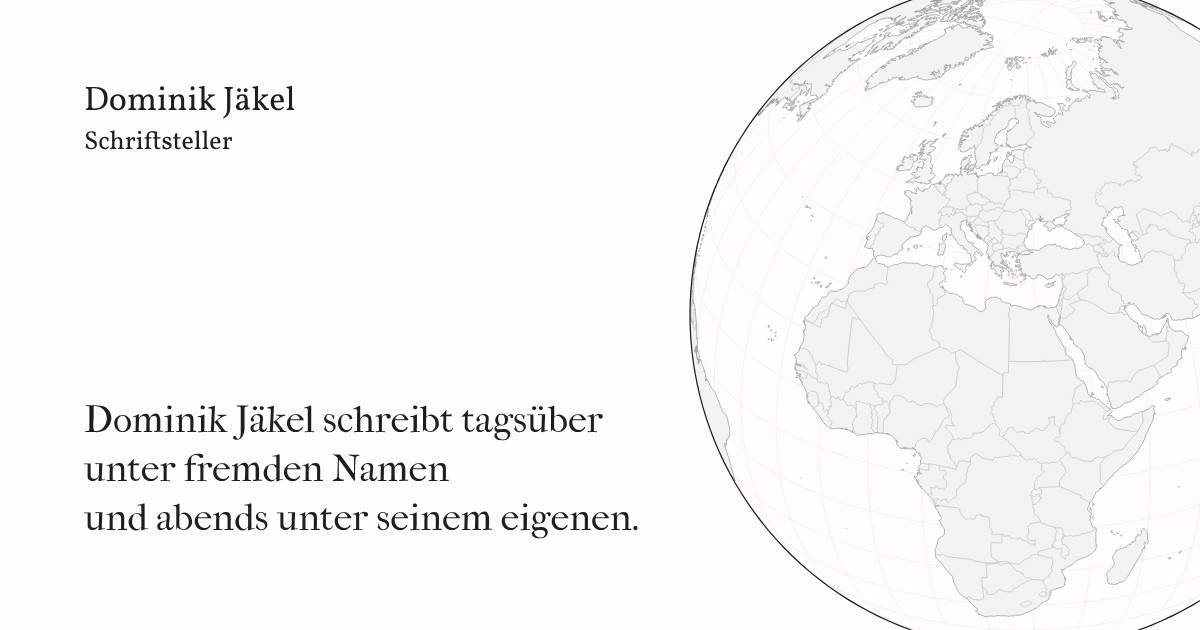
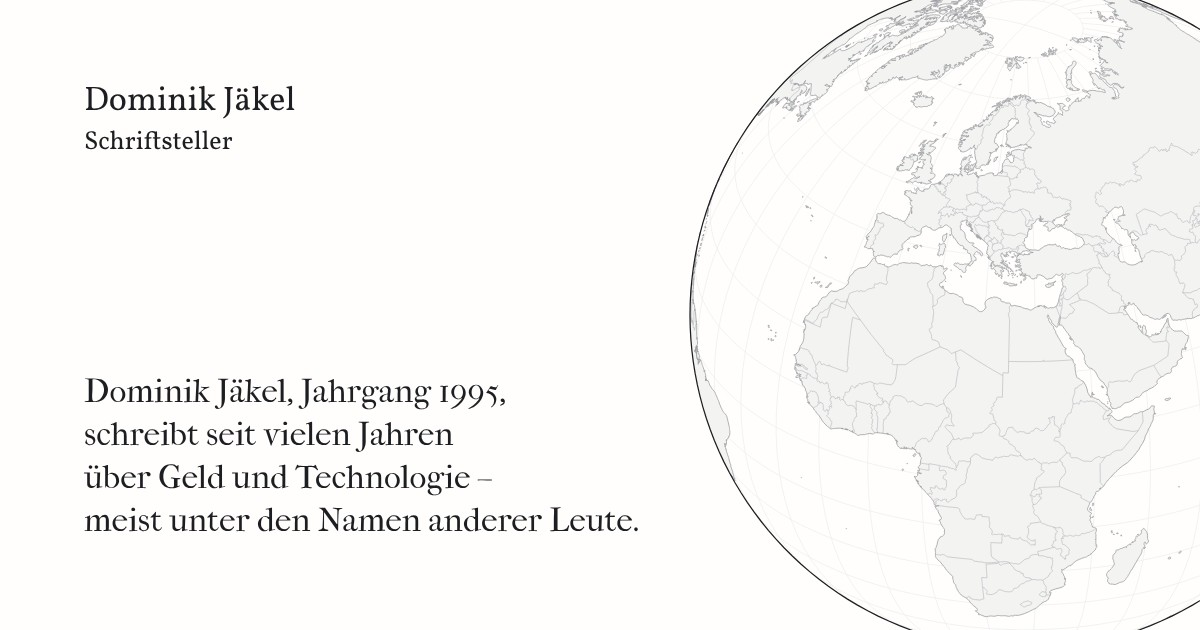
Live: neuer erster Satz der Startseite „Dominik Jäkel, Jahrgang 1995, schreibt seit vielen Jahren über Geld und Technologie – meist unter den Namen anderer Leute.“ (fünf Sinnzeilen, ab 1323 px vier, Einflug wie bisher, Regal bleibt bei 1440 × 900 im ersten Bildschirm); Vorschaubild für geteilte Link
Claude-Session: https://claude.ai/code/session_01FLvC2WiH5JqxixgzSsFejm

Changed region(s): [[0.0617, 0.6032, 0.4933, 0.7841], [0.0617, 0.8143, 0.5242, 0.8444]]

diff --git a/website-c/index.html b/website-c/index.html
@@ -31,12 +31,36 @@
    nur aus den Token in stil.css. */
 
 /* ---------- Der erste Satz (02) ----------
-   IM Fell French Canon im Grad Einstieg, jedes Glied eine Zeile. Der Platz für drei Zeilen steht von Anfang an fest. */
-.einstieg { --einstieg-zh: var(--zh-gross); margin-top: var(--z); min-height: calc(var(--einstieg-zh) * 3); font-size: var(--g-einstieg); line-height: var(--einstieg-zh); }
+   IM Fell French Canon im Grad Einstieg, jedes Glied eine Zeile. Seit dem 6. November Dominiks Satz vom Anfang seiner Bio (Dominik:
+   „Nimm das auch als Slogan für die Startseite ... / Dominik Jäkel, Jahrgang 1995, schreibt seit vielen Jahren über Geld und
+   Technologie – meist unter den Namen anderer Leute. / Ist besser als das mit dem tagsüber und abends ... Sonst okay.“), in fünf
+   Gliedern nach Sinneinheiten: „Dominik Jäkel, Jahrgang 1995, / schreibt seit vielen Jahren / über Geld und Technologie – / meist
+   unter den Namen / anderer Leute.“ Ab 1323 px Breite stehen die letzten beiden auf einer Zeile (.satzteil, unten), vier Zeilen wie
+   die vier Teile des Satzes: mit fünf Zeilen läge die Unterschrift des Regals bei 1440 × 900 unter dem Rand. Erst dort hat die
+   Zeile „meist unter den Namen anderer Leute.“ Platz, ohne unter 28,5 px zu kommen (Boden im Skript); schmaler bliebe sie zu klein
+   für die Zeilenhöhe von 1,5 z, darum dort fünf Zeilen im Grad, den das erste Glied erlaubt, wie auf dem Telefon. Auf dem Tablet
+   finden die letzten beiden von selbst auf eine Zeile, wo sie hinpassen. Der Platz für die Zeilen steht von Anfang an fest: fünf,
+   ab 1323 px und auf dem Tablet vier (bis zum 6. November drei für „Dominik Jäkel schreibt tagsüber / unter fremden Namen / und
+   abends unter seinem eigenen.“). */
+.einstieg { --einstieg-zh: var(--zh-gross); margin-top: var(--z); min-height: calc(var(--einstieg-zh) * 5); font-size: var(--g-einstieg); line-height: var(--einstieg-zh); }
 /* Letzte Sicherung, falls das Skript den Satz nicht anpassen kann: nie breiter als die Spalte, ein zu langes Wort bricht eher, als
    über den Rand zu laufen (Dominik: „der Punkt von eigenes abgeschnitten“). Den Flug berührt das nicht, er verschiebt nur. */
 .globusseite > .einstieg { max-width: min(100%, var(--mass)); min-width: 0; overflow-wrap: break-word; }
 .einstieg.gesetzt .glied-satz, .einstieg .paar { white-space: nowrap; }
+/* Ab 82,6875 rem (1323 px; die Spalte ist dann mindestens 490 px breit, 62vw − 330 px) bleibt der letzte Satzteil, „meist unter den
+   Namen“ und „anderer Leute.“, auf einer Zeile, und das Skript passt den Grad an diese Zeile an, die längste: 633,7 px in 38 px,
+   bei 1440 px 32,7 px, ab 1451 px 33,1 px. Darunter bricht er zwischen den beiden Gliedern wie jedes andere Glied. Nur gesetzt:
+   bricht der Satz frei, bricht auch er (white-space am Leerzeichen allein hält Chromium nicht, darum die Klammer um beide Glieder) */
+@media (min-width: 82.6875rem) {
+  .einstieg { min-height: calc(var(--einstieg-zh) * 4); }
+  .einstieg.gesetzt .satzteil { white-space: nowrap; }
+}
+/* Am Desktop steht der Satz ¼ z unter dem Kopf statt 1 z (6. November, mit dem neuen Satz): ab 1323 px hat er eine Zeile mehr als
+   der alte, so rücken Kurzvita und Regal dort nur um ¾ z tiefer statt um 1½ z (darunter, mit zwei Zeilen mehr, um 2¼ z statt
+   3 z). Bei 1440 × 900 bleiben unter der Unterschrift des Regals 38 px Luft (ohne das 17 px, vorher 60), und nach einem Klick auf
+   ein Buch steht die erste Zeile seines Satzes noch im Bild, wie bisher. In der vollen Website steht darüber die Navigation, von
+   ihr bis zum Satz sind es dann 1¼ z (vorher 2 z) */
+@media (min-width: 62.0625rem) { .globusseite > .einstieg { margin-top: var(--z-viertel); } }
 .einstieg-satz { display: inline; }
 html:not(.js) .einstieg .glied-satz { display: block; }
 .einstieg-satz .w { display: inline-block; }
@@ -293,7 +317,9 @@ html.folge #regalbild[data-folge]:not(.da) { pointer-events: none; }
 html:not(.js) .gelesen-vorwort, html:not(.js) .zeitband { display: none; }
 
 @media (max-width: 62rem) {
-  .einstieg { --einstieg-zh: calc(var(--z) * 1.25); }
+  /* Tablet und Telefon quer: die Spalte ist so breit, dass die letzten beiden Glieder (oder mehr) auf eine Zeile finden; vier Zeilen
+     reichen (768 px vier, 844 px quer drei) */
+  .einstieg { --einstieg-zh: calc(var(--z) * 1.25); min-height: calc(var(--einstieg-zh) * 4); }
   /* Einspaltig folgt die Kugel direkt auf die Kurzvita, mit 1 z Abstand aus stil.css (ohne Wahl der Ebene darüber) */
   .globusseite > .ebenentext { order: 1; margin-top: var(--z); }
   .schreiben-raster { grid-template-columns: minmax(0, var(--mass)); }
@@ -301,6 +327,8 @@ html:not(.js) .gelesen-vorwort, html:not(.js) .zeitband { display: none; }
   .schreiben-raster .verzeichnis { grid-column: 1; grid-row: 2; margin-top: var(--z); }
 }
 @media (max-width: 40rem) {
+  /* Auf dem Telefon steht der erste Satz in fünf Zeilen, je Glied eine (oben; 320 bis 412 px in 21 bis 27 px) */
+  .einstieg { min-height: calc(var(--einstieg-zh) * 5); }
   /* Das Band ist breiter als der Schirm und rollt in seinem eigenen Rahmen, nur unter dem Finger */
   .zeitband-roll { overflow-x: auto; overflow-y: hidden; -webkit-overflow-scrolling: touch; scrollbar-width: thin; overscroll-behavior-x: contain; padding-bottom: var(--z-viertel); margin: 0 calc(var(--rand-l) * -1); padding-left: var(--rand-l); padding-right: var(--rand-l); scroll-padding: 0 var(--rand-l); }
   .bandzeile > span { text-wrap: balance; hyphens: manual; -webkit-hyphens: manual; }
@@ -391,9 +419,10 @@ html[data-ausgabe="platzhalter"] .blass:has(:focus-visible) { opacity: 1 !import
 
 <main id="inhalt">
 <section class="globusseite" aria-label="Vita und Globus">
-  <p class="einstieg leitsatz" id="einstieg"><span class="glied-satz">Dominik Jäkel schreibt tagsüber</span> <span class="glied-satz">unter fremden Namen</span> <span class="glied-satz">und abends unter seinem eigenen.</span></p>
+  <p class="einstieg leitsatz" id="einstieg"><span class="glied-satz">Dominik Jäkel, Jahrgang 1995,</span> <span class="glied-satz">schreibt seit vielen Jahren</span> <span class="glied-satz">über Geld und Technologie&nbsp;–</span> <span class="satzteil"><span class="glied-satz">meist unter den Namen</span> <span class="glied-satz">anderer Leute.</span></span></p>
   <script>
-  /* Der erste Satz fliegt bei jedem Laden einmal ein, Wort für Wort von rechts, in rund 2 s (02; Tempo T2 „gelassen“). Er wartet höchstens
+  /* Der erste Satz fliegt bei jedem Laden einmal ein, Wort für Wort von rechts, in rund 2,7 s (02; Tempo T2 „gelassen“; mit dem Satz
+     bis zum 6. November, zwölf Wörter in drei Gliedern, waren es rund 2 s, das Tempo ist dasselbe). Er wartet höchstens
      1200 ms auf die IM Fell (bis zum 23. Oktober 600 ms, wie FSeite.schriftEinstieg; seite.js ist an dieser Stelle noch nicht
      geladen). Auf dem Telefon im Mobilnetz und im Fenster der Claude-App kam sie oft später, dann stand der Satz ohne Flug (Dominik,
      23. Oktober: „Beim Handy. Hatten wir uns entschieden, dass die Buchstaben nicht einfliegen. Finde das schon ganz schick
@@ -422,10 +451,12 @@ html[data-ausgabe="platzhalter"] .blass:has(:focus-visible) { opacity: 1 !import
     satz.setAttribute('aria-hidden', 'true');
     while (el.firstChild) satz.appendChild(el.firstChild);
     var glieder = Array.prototype.slice.call(satz.querySelectorAll('.glied-satz'));
-    // Was nie getrennt wird, auch wenn der Satz frei bricht: der Name und „seinem eigenen.“
-    var PAARE = ['Dominik Jäkel', 'seinem eigenen.'];
+    // Was nie getrennt wird, auch wenn der Satz frei bricht: der Name, „Jahrgang 1995,“ und „anderer Leute.“ (so steht in der letzten
+    // Zeile nie ein Wort allein). Getrennt wird nur an gewöhnlichem Leerraum, nicht am festen Leerzeichen: „Technologie –“ ist ein
+    // Wortkasten, der Gedankenstrich steht nie am Anfang einer Zeile und fliegt mit seinem Wort ein
+    var PAARE = ['Dominik Jäkel,', 'Jahrgang 1995,', 'anderer Leute.'];
     glieder.forEach(function (g) {
-      var woerter = g.textContent.trim().split(/\s+/);
+      var woerter = g.textContent.trim().split(/[ \t\n\r\f]+/);
       g.textContent = '';
       var paar = null;
       woerter.forEach(function (w, i) {
@@ -454,7 +485,9 @@ html[data-ausgabe="platzhalter"] .blass:has(:focus-visible) { opacity: 1 !import
     var woerter = Array.prototype.slice.call(satz.querySelectorAll('.w'));
 
     /* Jedes Glied eine Zeile. Passt das längste nicht mit Luft in die Spalte, wird die Schrift kleiner, bis es passt, am Desktop
-       nicht unter 28,5 px, sonst nicht unter 20,7 px. Reicht auch das nicht, bricht der Satz frei; über den Rand läuft er nie.
+       nicht unter 28,5 px, sonst nicht unter 20,7 px. Reicht auch das nicht, bricht der Satz frei; über den Rand läuft er nie. Ab
+       1323 px ist die längste Zeile die mit den beiden letzten Gliedern (.satzteil, Stil oben): laengstes() misst das rechte Ende
+       jedes Glieds, das zweite steht dort am Ende der Zeile.
        Dominik am 23. Oktober, mit einem Bildschirmfoto: „Bei mir auf dem eigenen Handy ist der Punkt von eigenes abgeschnitten.“
        Auf seinem Telefon stand der Satz rund 10 % größer, als die Anpassung ihn in Chromium setzt. Darum:
        - Luft: das längste Glied nimmt höchstens 97 % der Spalte ein, mindestens 6 px bleiben frei (Stufen in anpassen());
@@ -469,9 +502,12 @@ html[data-ausgabe="platzhalter"] .blass:has(:focus-visible) { opacity: 1 !import
       glieder.forEach(function (g) { rechts = Math.max(rechts, g.getBoundingClientRect().right); });
       return rechts - links;
     }
-    // Was beim letzten Setzen galt: Breite der Spalte und Breite jedes Worts. Ändert sich eins davon, wird neu gesetzt (unten)
+    // Was beim letzten Setzen galt: Breite der Spalte, ob der letzte Satzteil auf einer Zeile steht (ab 82,6875 rem, wie im Stil oben;
+    // an der Grenze ändert sich die gerundete Breite der Spalte oft nicht, sonst bliebe nach einem Größenwechsel der Grad der anderen
+    // Seite stehen) und Breite jedes Worts. Ändert sich eins davon, wird neu gesetzt (unten)
     var masse = '';
-    function mass() { return el.clientWidth + ':' + woerter.map(function (w) { return w.offsetWidth; }).join(','); }
+    var zusammen = function () { return !!(window.matchMedia && window.matchMedia('(min-width: 82.6875rem)').matches); };
+    function mass() { return el.clientWidth + ':' + zusammen() + ':' + woerter.map(function (w) { return w.offsetWidth; }).join(','); }
     function setzen() {
       anpassen();
       masse = mass();
@@ -534,7 +570,8 @@ html[data-ausgabe="platzhalter"] .blass:has(:focus-visible) { opacity: 1 !import
        Kurve (.22,.7,.28,1), und getrennt davon die Deckkraft in DECKKRAFT ms (ease), so dass man jedes Wort satt werden sieht;
        VERSATZ ms von Wort zu Wort, ATEM ms zwischen den Gliedern, kein Nachfedern, keine Unschärfe (bis zum 24. Oktober lag über
        jedem Wort eine unscharfe Kopie, die ins scharfe überblendete; im Tempo „gelassen“, das Dominik am 24. Oktober gewählt hat,
-       entfällt sie). Ganz: 9 × VERSATZ + 2 × ATEM + WEG, rund 1,9 s. Textmoment: das letzte Wort steht zu 95 % (Beginn +
+       entfällt sie). Ganz: 13 × VERSATZ + 4 × ATEM + WEG, rund 2,7 s (18 Wortkästen in fünf Gliedern; wo die letzten beiden auf
+       einer Zeile stehen, liegt ein Atem mitten in ihr, vor „anderer Leute.“). Textmoment: das letzte Wort steht zu 95 % (Beginn +
        max(DECKKRAFT, 0,6 × WEG)). Beides sind Animationen von Deckkraft und Verschiebung, die der Browser ohne den Hauptfaden
        weiterführt: baut die Seite in dieser Zeit die Kugel auf, stockt nichts */
     var WEG = 800, DECKKRAFT = 420, VERSATZ = 75, ATEM = 220;

diff --git a/veroeffentlichung/index.html b/veroeffentlichung/index.html
@@ -16,7 +16,7 @@
 <meta property="og:image:type" content="image/jpeg">
 <meta property="og:image:width" content="1200">
 <meta property="og:image:height" content="630">
-<meta property="og:image:alt" content="Dominik Jäkel, Schriftsteller. Dominik Jäkel schreibt tagsüber unter fremden Namen und abends unter seinem eigenen. Rechts ein Globus mit Europa und Afrika.">
+<meta property="og:image:alt" content="Dominik Jäkel, Schriftsteller. Dominik Jäkel, Jahrgang 1995, schreibt seit vielen Jahren über Geld und Technologie – meist unter den Namen anderer Leute. Rechts ein Globus mit Europa und Afrika.">
 <meta name="twitter:card" content="summary_large_image">
 <script type="application/ld+json">{"@context":"https://schema.org","@type":"Person","@id":"https://dominikjaekel.de/#person","name":"Dominik Jäkel","url":"https://dominikjaekel.de/","jobTitle":"Schriftsteller","description":"Dominik Jäkel studierte am Hasso-Plattner-Institut in Potsdam und lebte vier Jahre auf Taiwan; heute lebt er in Berlin und moderiert u. a. die Werkstattbühne des Autorenforums Berlin e. V. 2022 erhielt er den A.-E.-Johann-Preis. Gerade schließt er seinen Debütroman Satoshi ab; daneben schreibt er an einer Romantrilogie über die Ursprünge der Zivilisation.","award":"A.-E.-Johann-Preis (2022)","affiliation":{"@type":"Organization","name":"Autorenforum Berlin e. V.","url":"https://autorenforum-berlin.de/"}}</script>
 <meta name="theme-color" content="#FFFEFC">
@@ -36,9 +36,14 @@ document.documentElement.classList.add('js');
 
 <link rel="stylesheet" href="stil.css">
 <style>
-.einstieg { --einstieg-zh: var(--zh-gross); margin-top: var(--z); min-height: calc(var(--einstieg-zh) * 3); font-size: var(--g-einstieg); line-height: var(--einstieg-zh); }
+.einstieg { --einstieg-zh: var(--zh-gross); margin-top: var(--z); min-height: calc(var(--einstieg-zh) * 5); font-size: var(--g-einstieg); line-height: var(--einstieg-zh); }
 .globusseite > .einstieg { max-width: min(100%, var(--mass)); min-width: 0; overflow-wrap: break-word; }
 .einstieg.gesetzt .glied-satz, .einstieg .paar { white-space: nowrap; }
+@media (min-width: 82.6875rem) {
+  .einstieg { min-height: calc(var(--einstieg-zh) * 4); }
+  .einstieg.gesetzt .satzteil { white-space: nowrap; }
+}
+@media (min-width: 62.0625rem) { .globusseite > .einstieg { margin-top: var(--z-viertel); } }
 .einstieg-satz { display: inline; }
 html:not(.js) .einstieg .glied-satz { display: block; }
 .einstieg-satz .w { display: inline-block; }
@@ -177,13 +182,14 @@ html.folge #regalbild[data-folge]:not(.da) { pointer-events: none; }
 .ganze { margin-top: var(--z-dreiviertel); }
 html:not(.js) .gelesen-vorwort, html:not(.js) .zeitband { display: none; }
 @media (max-width: 62rem) {
-  .einstieg { --einstieg-zh: calc(var(--z) * 1.25); }
+  .einstieg { --einstieg-zh: calc(var(--z) * 1.25); min-height: calc(var(--einstieg-zh) * 4); }
   .globusseite > .ebenentext { order: 1; margin-top: var(--z); }
   .schreiben-raster { grid-template-columns: minmax(0, var(--mass)); }
   .schreiben-raster .regalbild { grid-column: 1; grid-row: 1; margin: 0; }
   .schreiben-raster .verzeichnis { grid-column: 1; grid-row: 2; margin-top: var(--z); }
 }
 @media (max-width: 40rem) {
+  .einstieg { min-height: calc(var(--einstieg-zh) * 5); }
   .zeitband-roll { overflow-x: auto; overflow-y: hidden; -webkit-overflow-scrolling: touch; scrollbar-width: thin; overscroll-behavior-x: contain; padding-bottom: var(--z-viertel); margin: 0 calc(var(--rand-l) * -1); padding-left: var(--rand-l); padding-right: var(--rand-l); scroll-padding: 0 var(--rand-l); }
   .bandzeile > span { text-wrap: balance; hyphens: manual; -webkit-hyphens: manual; }
   .stueck.liegt > span { left: 4px; right: 4px; }
@@ -228,7 +234,7 @@ html[data-ausgabe="platzhalter"] .blass:has(:focus-visible) { opacity: 1 !import
 
 <main id="inhalt">
 <section class="globusseite" aria-label="Vita und Globus">
-  <p class="einstieg leitsatz" id="einstieg"><span class="glied-satz">Dominik Jäkel schreibt tagsüber</span> <span class="glied-satz">unter fremden Namen</span> <span class="glied-satz">und abends unter seinem eigenen.</span></p>
+  <p class="einstieg leitsatz" id="einstieg"><span class="glied-satz">Dominik Jäkel, Jahrgang 1995,</span> <span class="glied-satz">schreibt seit vielen Jahren</span> <span class="glied-satz">über Geld und Technologie&nbsp;–</span> <span class="satzteil"><span class="glied-satz">meist unter den Namen</span> <span class="glied-satz">anderer Leute.</span></span></p>
   <script>
   (function () {
     'use strict';
@@ -246,9 +252,9 @@ html[data-ausgabe="platzhalter"] .blass:has(:focus-visible) { opacity: 1 !import
     satz.setAttribute('aria-hidden', 'true');
     while (el.firstChild) satz.appendChild(el.firstChild);
     var glieder = Array.prototype.slice.call(satz.querySelectorAll('.glied-satz'));
-    var PAARE = ['Dominik Jäkel', 'seinem eigenen.'];
+    var PAARE = ['Dominik Jäkel,', 'Jahrgang 1995,', 'anderer Leute.'];
     glieder.forEach(function (g) {
-      var woerter = g.textContent.trim().split(/\s+/);
+      var woerter = g.textContent.trim().split(/[ \t\n\r\f]+/);
       g.textContent = '';
       var paar = null;
       woerter.forEach(function (w, i) {
@@ -282,7 +288,8 @@ html[data-ausgabe="platzhalter"] .blass:has(:focus-visible) { opacity: 1 !import
       return rechts - links;
     }
     var masse = '';
-    function mass() { return el.clientWidth + ':' + woerter.map(function (w) { return w.offsetWidth; }).join(','); }
+    var zusammen = function () { return !!(window.matchMedia && window.matchMedia('(min-width: 82.6875rem)').matches); };
+    function mass() { return el.clientWidth + ':' + zusammen() + ':' + woerter.map(function (w) { return w.offsetWidth; }).join(','); }
     function setzen() {
       anpassen();
       masse = mass();

diff --git a/website-c/werkzeuge/vorschaubild.html b/website-c/werkzeuge/vorschaubild.html
@@ -5,7 +5,11 @@
 <title>Vorschaubild</title>
 <!-- Vorlage für bilder/vorschau.jpg (Open Graph, 1200 × 630), gerechnet von werkzeuge/bilder.cjs. Wird nicht veröffentlicht.
      Wie die Startseite: links Name, Tagline und der erste Satz, rechts die angeschnittene Kugel in feinen Linien. Farben, Schriften
-     und Linien aus stil.css und Abschnitt 4.1 der Regeln. Kein Verlauf, kein Schatten. Pfade relativ zu website-c/werkzeuge/. -->
+     und Linien aus stil.css und Abschnitt 4.1 der Regeln. Kein Verlauf, kein Schatten. Pfade relativ zu website-c/werkzeuge/.
+     Seit dem 6. November Dominiks neuer erster Satz („Nimm das auch als Slogan für die Startseite ...“) in den vier Zeilen der
+     Startseite am Desktop (dort ab 1323 px): „Dominik Jäkel, Jahrgang 1995, / schreibt seit vielen Jahren / über Geld und
+     Technologie – / meist unter den Namen anderer Leute.“; bis dahin „Dominik Jäkel schreibt tagsüber / unter fremden Namen / und
+     abends unter seinem eigenen.“ -->
 <style>
 @font-face { font-family: "Vollkorn"; src: url("../schrift/vollkorn.woff2") format("woff2"); font-weight: 400 600; font-style: normal; }
 @font-face { font-family: "IM Fell French Canon"; src: url("../schrift/im-fell-french-canon.woff2") format("woff2"); font-weight: 400; font-style: normal; }
@@ -30,7 +34,7 @@ body { position: relative; font-family: "Vollkorn", Georgia, serif; font-variant
   <p class="name">Dominik Jäkel</p>
   <p class="rolle">Schriftsteller</p>
 </div>
-<p class="satz"><span>Dominik Jäkel schreibt tagsüber</span><span>unter fremden Namen</span><span>und abends unter seinem eigenen.</span></p>
+<p class="satz"><span>Dominik Jäkel, Jahrgang 1995,</span><span>schreibt seit vielen Jahren</span><span>über Geld und Technologie&nbsp;–</span><span>meist unter den Namen anderer Leute.</span></p>
 <script src="../lib/d3.min.js"></script>
 <script src="../lib/topojson-client.min.js"></script>
 <script src="../daten/welt-50m.js"></script>

diff --git a/veroeffentlichung/vita.html b/veroeffentlichung/vita.html
@@ -16,7 +16,7 @@
 <meta property="og:image:type" content="image/jpeg">
 <meta property="og:image:width" content="1200">
 <meta property="og:image:height" content="630">
-<meta property="og:image:alt" content="Dominik Jäkel, Schriftsteller. Dominik Jäkel schreibt tagsüber unter fremden Namen und abends unter seinem eigenen. Rechts ein Globus mit Europa und Afrika.">
+<meta property="og:image:alt" content="Dominik Jäkel, Schriftsteller. Dominik Jäkel, Jahrgang 1995, schreibt seit vielen Jahren über Geld und Technologie – meist unter den Namen anderer Leute. Rechts ein Globus mit Europa und Afrika.">
 <meta name="twitter:card" content="summary_large_image">
 <script type="application/ld+json">{"@context":"https://schema.org","@type":"Person","@id":"https://dominikjaekel.de/#person","name":"Dominik Jäkel","url":"https://dominikjaekel.de/","jobTitle":"Schriftsteller","description":"Dominik Jäkel studierte am Hasso-Plattner-Institut in Potsdam und lebte vier Jahre auf Taiwan; heute lebt er in Berlin und moderiert u. a. die Werkstattbühne des Autorenforums Berlin e. V. 2022 erhielt er den A.-E.-Johann-Preis. Gerade schließt er seinen Debütroman Satoshi ab; daneben schreibt er an einer Romantrilogie über die Ursprünge der Zivilisation.","award":"A.-E.-Johann-Preis (2022)","affiliation":{"@type":"Organization","name":"Autorenforum Berlin e. V.","url":"https://autorenforum-berlin.de/"}}</script>
 <meta name="theme-color" content="#FFFEFC">

diff --git a/veroeffentlichung/datenschutz.html b/veroeffentlichung/datenschutz.html
@@ -17,7 +17,7 @@
 <meta property="og:image:type" content="image/jpeg">
 <meta property="og:image:width" content="1200">
 <meta property="og:image:height" content="630">
-<meta property="og:image:alt" content="Dominik Jäkel, Schriftsteller. Dominik Jäkel schreibt tagsüber unter fremden Namen und abends unter seinem eigenen. Rechts ein Globus mit Europa und Afrika.">
+<meta property="og:image:alt" content="Dominik Jäkel, Schriftsteller. Dominik Jäkel, Jahrgang 1995, schreibt seit vielen Jahren über Geld und Technologie – meist unter den Namen anderer Leute. Rechts ein Globus mit Europa und Afrika.">
 <meta name="twitter:card" content="summary_large_image">
 <meta name="theme-color" content="#FFFEFC">
 <script>

diff --git a/veroeffentlichung/impressum.html b/veroeffentlichung/impressum.html
@@ -17,7 +17,7 @@
 <meta property="og:image:type" content="image/jpeg">
 <meta property="og:image:width" content="1200">
 <meta property="og:image:height" content="630">
-<meta property="og:image:alt" content="Dominik Jäkel, Schriftsteller. Dominik Jäkel schreibt tagsüber unter fremden Namen und abends unter seinem eigenen. Rechts ein Globus mit Europa und Afrika.">
+<meta property="og:image:alt" content="Dominik Jäkel, Schriftsteller. Dominik Jäkel, Jahrgang 1995, schreibt seit vielen Jahren über Geld und Technologie – meist unter den Namen anderer Leute. Rechts ein Globus mit Europa und Afrika.">
 <meta name="twitter:card" content="summary_large_image">
 <meta name="theme-color" content="#FFFEFC">
 <script>

diff --git a/veroeffentlichung/satoshi.html b/veroeffentlichung/satoshi.html
@@ -17,7 +17,7 @@
 <meta property="og:image:type" content="image/jpeg">
 <meta property="og:image:width" content="1200">
 <meta property="og:image:height" content="630">
-<meta property="og:image:alt" content="Dominik Jäkel, Schriftsteller. Dominik Jäkel schreibt tagsüber unter fremden Namen und abends unter seinem eigenen. Rechts ein Globus mit Europa und Afrika.">
+<meta property="og:image:alt" content="Dominik Jäkel, Schriftsteller. Dominik Jäkel, Jahrgang 1995, schreibt seit vielen Jahren über Geld und Technologie – meist unter den Namen anderer Leute. Rechts ein Globus mit Europa und Afrika.">
 <meta name="twitter:card" content="summary_large_image">
 <meta name="theme-color" content="#FFFEFC">
 <script>

diff --git a/website-c/werkzeuge/veroeffentlichen.py b/website-c/werkzeuge/veroeffentlichen.py
@@ -168,9 +168,11 @@ TEXTDATEIEN = ('.html', '.css', '.js')
 FEHLERSEITE = '404.html'
 VORSCHAUBILD = 'bilder/vorschau.jpg'
 # Die Rolle wie im Kopf der Seiten und auf dem Bild (Dominik, 29. Oktober: „Und schreib nur noch schrifsteller. Nicht mehr
-# schrifsteller und Reisender“)
-VORSCHAU_ALT = ('Dominik Jäkel, Schriftsteller. Dominik Jäkel schreibt tagsüber unter fremden Namen und abends '
-                'unter seinem eigenen. Rechts ein Globus mit Europa und Afrika.')
+# schrifsteller und Reisender“), dann der erste Satz der Startseite, wie er auf dem Bild steht (seit dem 6. November Dominiks Satz
+# vom Anfang seiner Bio: „Nimm das auch als Slogan für die Startseite ...“; vorher „Dominik Jäkel schreibt tagsüber unter fremden
+# Namen und abends unter seinem eigenen.“)
+VORSCHAU_ALT = ('Dominik Jäkel, Schriftsteller. Dominik Jäkel, Jahrgang 1995, schreibt seit vielen Jahren über Geld und '
+                'Technologie – meist unter den Namen anderer Leute. Rechts ein Globus mit Europa und Afrika.')
 # Die Seiten in der Reihenfolge von FSeite.SEITEN (seite.js); die Startseite steht unter „/“
 SEITEN = ['index.html', 'satoshi.html', 'ursprung.html', 'erzaehlungen.html', 'untertext.html', 'laender.html', 'bibliothek.html',
           'vita.html', 'lesen.html', 'impressum.html', 'datenschutz.html']

diff --git a/docs/dominik-vorgaben.md b/docs/dominik-vorgaben.md
@@ -92,7 +92,7 @@ Der Satz selbst: „Dominik Jäkel schreibt tagsüber unter fremden Namen und ab
 Für den Bau: Der Satz bleibt im Wortlaut und fliegt ein. Nach Claudes Zusage vom 21.10. wird der Einflug kürzer und blockiert den Globus nicht. Bei reduzierter Bewegung steht er sofort da.
 Ort in A: `index.html`, `p#einstieg.leitsatz`; `vita.html`, `p.einstieg.leitsatz` am Anfang der `div.vita-text`.
 **Konflikt** mit Element 02 und Frage 2: Dort wird empfohlen, den Satz stehend in der Vollkorn zu setzen. Seine Vorgabe gilt. Der Grund des Vergleichsdokuments (der Einflug ist das auffälligste Einzelmerkmal des ersten Bildschirms) rechtfertigt einen kürzeren, ruhigeren Einflug, kein Streichen. Auch die eigene Anzeigeschrift ist sein Wunsch („eine gute optische Schriftart“); sie darf nur ersetzt werden, wenn eine andere Anzeigeschrift deutlich besser passt.
-Später geändert: ergänzt durch V79 (der Satz wartet bis 1200 ms auf seine Schrift, damit er auch auf dem Telefon meist einfliegt). Teilweise durch V83 (24. Oktober): Die Zusage „blockiert den Globus nicht“ gilt nicht mehr. Nach seinem Wunsch vom 23. Oktober („Der Fokus ist in den ersten Sekunden immer auf dem Text“) kommt der Globus erst nach dem Satz. Der Einflug ist im Tempo „gelassen“ langsamer und ohne Unschärfe; der Satz steht nach rund 2 s still statt nach 1 s.
+Später geändert: ergänzt durch V79 (der Satz wartet bis 1200 ms auf seine Schrift, damit er auch auf dem Telefon meist einfliegt). Teilweise durch V83 (24. Oktober): Die Zusage „blockiert den Globus nicht“ gilt nicht mehr. Nach seinem Wunsch vom 23. Oktober („Der Fokus ist in den ersten Sekunden immer auf dem Text“) kommt der Globus erst nach dem Satz. Der Einflug ist im Tempo „gelassen“ langsamer und ohne Unschärfe; der Satz steht nach rund 2 s still statt nach 1 s. Der Wortlaut ist seit dem 6. November ein anderer: V91.
 
 **V14. „Schriftsteller und Reisender“ bleibt, aber eleganter.**
 „Autor und Reisender in der Schrift sieht nach KI aus. Könnte eleganter.“ (19.10., 03:58). „Ein Nachtrag auf jeden Fall. Klein. Es müsste Schriftsteller und Reisender heißen.“ (19.10., 04:00)
@@ -543,6 +543,12 @@ Ort in C: `website-c/vita.html` (`div.vita-text`, `p.profil-hinweis`, `figure.bi
 Entschieden am 6. November: „Nimm A und stell es live. / (Schreib mal bitte Senior Content Writer (DE/EN) ist also besser!)“ – Fassung A ist live; die Station 2025–heute heißt „Senior Content Writer (DE/EN)“ statt „Senior Content Writer (Leitung deutschsprachiger Contentabteilung)“ (2022–2024 bleibt „Content Writer bei Simon-Kucher (EN/DE)“). Die Beschreibung der Vita für Suchmaschinen (meta description, og:description) ist sein erster Satz der Bio.
 Später geändert: ja, V91 (sein erster Satz der Bio wird auch der erste Satz der Startseite).
 
+**V91. Der erste Satz der Startseite ist sein erster Satz der Bio.**
+„Nimm A und stell es live. / (Schreib mal bitte Senior Content Writer (DE/EN) ist also besser!) Nimm das auch als Slogan für die Startseite ... / Dominik Jäkel, Jahrgang 1995, schreibt seit vielen Jahren über Geld und Technologie – meist unter den Namen anderer Leute. / Ist besser als das mit dem tagsüber und abends ... Sonst okay. Du kannst es livepushen!“ (6.11.)
+Für den Bau: Statt „Dominik Jäkel schreibt tagsüber unter fremden Namen und abends unter seinem eigenen.“ (V13) steht auf der Startseite (beide Ausgaben) „Dominik Jäkel, Jahrgang 1995, schreibt seit vielen Jahren über Geld und Technologie – meist unter den Namen anderer Leute.“, in der IM Fell, mit Einflug wie bisher (Tempo „gelassen“, rund 2,7 s statt 2 s, weil es mehr Wörter sind). Fünf Glieder nach Sinneinheiten: „Dominik Jäkel, Jahrgang 1995, / schreibt seit vielen Jahren / über Geld und Technologie – / meist unter den Namen / anderer Leute.“; ab 1323 px Breite stehen die letzten beiden auf einer Zeile (vier Zeilen), damit das Regal bei 1440 × 900 im ersten Bildschirm bleibt; am Desktop steht der Satz dafür ¼ z statt 1 z unter dem Kopf. Der Gedankenstrich steht nie am Zeilenanfang. Das Vorschaubild für geteilte Links (bilder/vorschau.jpg) und sein Alt-Text zeigen den neuen Satz. Die Kurzvita darunter bleibt („Er wurde 1995 in Dortmund geboren …“); dass 1995 nun zweimal kurz hintereinander steht, hat Claude ihm als Frage gestellt (Übersicht 3, Punkt 26).
+Ort in C: `website-c/index.html` (`p#einstieg`, Stil „Der erste Satz (02)“, Einflug-Skript: `PAARE`, `.satzteil`), `website-c/werkzeuge/vorschaubild.html`, `website-c/bilder/vorschau.jpg`, `website-c/werkzeuge/veroeffentlichen.py` (`VORSCHAU_ALT`); Änderungsprotokoll, 6. November („Neuer erster Satz der Startseite“).
+Später geändert: nein.
+
 ---
 
 ## 8. Texte und Ton
@@ -675,6 +681,7 @@ Später geändert: ja, V90 (6.11.), nur für die Vita und nur in seinem Wortlaut
 | Text | Herkunft | Ort in `website/` |
 |---|---|---|
 | Erster Satz „Dominik Jäkel schreibt tagsüber …“ | Claudes Vorschlag, von ihm gewählt (19.10., 20:16) | `index.html` `p#einstieg`; bis V90 auch `vita.html` `p.einstieg` |
+| Erster Satz „Dominik Jäkel, Jahrgang 1995, schreibt seit vielen Jahren …“ | seine Wörter (6.11., V91; zuerst der erste Satz seiner Bio, V90) | `index.html` `p#einstieg`; `vita.html` erster Absatz |
 | „Schriftsteller und Reisender“, seit 29.10. nur „Schriftsteller“ (V89) | sein Wunsch (19.10., 04:00; 29.10.) | alle Seiten, `.briefkopf .rolle` |
 | Kurzvita der Startseite mit Werkstattbühne | Claudes Kürzung, von ihm freigegeben (20.10., 04:47) | `index.html` `p.vita` |
 | „Was ich schreibe“, „Was ich gelesen habe“ | seine Wörter (19.10., 20:12) | `index.html` `h2#schreiben-titel`, `h2#gelesen-titel` |
@@ -753,5 +760,7 @@ Ohne Konflikt, aber durch ihn entschieden: Frage 6 (V17), Frage 9 (V22), Frage 1
 23. ~~**Satz zur Bibliothek im Exposé:** „*Ficciones* steht in der Bibliothek, ebenso …“ steht dort als Text und meint eine Seite, die man vom Exposé aus nicht erreicht. Lassen oder im Exposé weglassen?~~ Beantwortet am 29. Oktober: „Das mit der Bibliothek soll auch alles raus.“ Der Satz fällt im Exposé weg, in der vollen Website bleibt er (V89).
 24. **Sprung zum Globus (V89):** Passiert es noch, wenn er den Link frisch aus dem Chat in einem neuen Tab öffnet, oder nur beim Zurückkehren in den Tab oder beim Neuladen? Tippt er vorher in der Vita auf „auf dem Globus“? Behoben ist nur das Neuladen; kehrt das Telefon über den Verlauf zurück, stellt der Browser die Stelle weiter her.
 25. ~~**Vita (V90):** welche der drei Fassungen? A „Zwei Spalten, im Gleichgewicht“ (Claudes Empfehlung, im Repository), B „Das Bild zurückgenommen“ oder C „Ein Blatt“; Vergleich „Vita: drei Fassungen“. Live ist bis dahin die Vita vom 29. Oktober.~~ Beantwortet am 6. November: „Nimm A und stell es live.“
+26. **Kurzvita der Startseite (V91):** Direkt unter dem neuen ersten Satz („Dominik Jäkel, Jahrgang 1995, …“) beginnt die Kurzvita mit „Er wurde 1995 in Dortmund geboren …“, 1995 steht damit zweimal kurz hintereinander. Die Jahreszahl in der Kurzvita streichen („Er wurde in Dortmund geboren …“)? Bis dahin bleibt sie.
+27. **Stationen (V90):** „2022–2024 Content Writer bei Simon-Kucher (EN/DE)“ und „2025–heute Senior Content Writer (DE/EN)“ – bei beiden (DE/EN), oder ist die umgekehrte Reihenfolge Absicht?
 
 Beantwortet am 24. Oktober vor dem Livegang (Dominik: „Vercel Hobby … 65 Länder bleiben. Simon-Kucher ja. Impressum und Datenschutz von mir freigegeben“), standen nicht als eigene Nummer in dieser Liste, sondern in `docs/todo.md`: **65 Länder** bleiben (V27); **Tarif bei Vercel:** Hobby (`TARIF = 'hobby'` in `website-c/werkzeuge/veroeffentlichen.py`, im Datenschutz die Fassung ohne Vertrag zur Auftragsverarbeitung); **Impressum und Datenschutz** freigegeben, die beiden Vermerke `[[ZU PRÜFEN: … freigegeben?]]` sind gelöscht. Die Angaben zu Vercel im Datenschutz stammen aus der Zwischenmeldung 2 der Vercel-Sitzung vom 24. Oktober (live gelesen).

diff --git a/website-c/werkzeuge/aenderungsprotokoll.md b/website-c/werkzeuge/aenderungsprotokoll.md
@@ -743,3 +743,13 @@ Dominik: „Nimm A und stell es live. / (Schreib mal bitte Senior Content Writer
 - Live gebaut mit `python3 website-c/werkzeuge/veroeffentlichen.py`: der Bau unterscheidet sich vom geprüften Bau der Fassung A (`vita5/bau-final`) nur in diesen drei Zeilen von `vita.html`. Geprüft: `SCHLUSS=v1 pruefen-platz.cjs` gegen `veroeffentlichung/` 0 Fehler, `pruefen.cjs` gegen die volle Website 0 Fehler.
 - Noch nicht umgesetzt (folgt eigens, mit Prüfung des Einflugs): sein neuer erster Satz auf der Startseite statt „Dominik Jäkel schreibt tagsüber unter fremden Namen und abends unter seinem eigenen.“ (V91).
 
+## 6. November 2026: Neuer erster Satz der Startseite
+
+Dominik: „Nimm das auch als Slogan für die Startseite ... / Dominik Jäkel, Jahrgang 1995, schreibt seit vielen Jahren über Geld und Technologie – meist unter den Namen anderer Leute. / Ist besser als das mit dem tagsüber und abends ... Sonst okay. Du kannst es livepushen!“
+
+- `index.html`, `p#einstieg`: der neue Satz in fünf `span.glied-satz` („Dominik Jäkel, Jahrgang 1995, / schreibt seit vielen Jahren / über Geld und Technologie&nbsp;– / meist unter den Namen / anderer Leute.“), die letzten beiden in `span.satzteil`. Ab 82,6875 rem (1323 px) stehen sie auf einer Zeile (vier Zeilen; der Grad passt sich an diese längste Zeile an, bei 1440 px 32,7 px statt 37,2 px), darunter fünf Zeilen (1280 px: 35,4 px; 1024 px: 33,4 px; Telefon 393 mit Text +10 %: 25,8 px). Platz vorgehalten: `min-height` fünf Zeilen, ab 1323 px und auf dem Tablet vier. Am Desktop steht der Satz ¼ z statt 1 z unter dem Kopf. `PAARE` im Einflug: „Dominik Jäkel,“, „Jahrgang 1995,“ und „anderer Leute.“ bleiben zusammen; getrennt wird nicht am festen Leerzeichen, so steht der Gedankenstrich nie am Zeilenanfang. Einflug im Tempo „gelassen“ unverändert, 18 Wortkästen, rund 2,7 s.
+- Gemessen (Vercel-Bau hinter `server.py`): 1440 × 900 Satz 192–363, Kurzvita 385–584, Regal 620–897 (ganz im ersten Bildschirm; vorher 214–342, 363–563, 599–876); 1920 × 1080 Regal 591–872; 1280 × 800 Regal 691–936 (vorher 627–872, schon vorher nicht ganz im ersten Bildschirm); Telefon fünf Zeilen, kein Überlauf auf 320, 393 (+10 %) und 412; CLS 0 am Desktop und am Telefon; Vorlesefassung ein Satz.
+- `werkzeuge/vorschaubild.html` und `bilder/vorschau.jpg` (og:image) mit dem neuen Satz in vier Zeilen, `VORSCHAU_ALT` in `veroeffentlichen.py` (og:image:alt auf jeder Seite) ebenso.
+- Prüfprogramme `pruefen-platz.cjs` und `pruefen.cjs` erwarten den neuen Satz (Kopien vorher `*.vor-satz6.cjs`). Läufe: `pruefen-platz.cjs` (SCHLUSS=v1) 0 Fehler, `pruefen.cjs` 0 Fehler, `pruefen-artefakt.cjs` 41 Prüfpunkte, 0 Fehler. Der Live-Bau ist Byte für Byte der geprüfte.
+- Die Arbeit lief zweimal über einen Neustart der Arbeitsumgebung; der letzte Stand wurde neu gebaut, mit dem vorhandenen verglichen (gleich) und neu geprüft.
+

diff --git a/docs/todo.md b/docs/todo.md
@@ -2,6 +2,11 @@
 
 Stand: 6. November 2026. Was bis zum Livegang und danach noch zu tun ist. Wer es tut, steht dabei: **Dominik** (Anmelden, Bezahlen, Entscheiden, alles im Browser) oder **Claude** (Code im Repository).
 
+## Erster Satz der Startseite (6. November, V91)
+
+- [x] **Claude:** Sein neuer Satz „Dominik Jäkel, Jahrgang 1995, schreibt seit vielen Jahren über Geld und Technologie – meist unter den Namen anderer Leute.“ auf der Startseite und im Vorschaubild, live seit 6. November.
+- [ ] **Dominik:** Kurzvita der Startseite: 1995 steht jetzt zweimal kurz hintereinander – Jahreszahl dort streichen? Und bei den Stationen (EN/DE) bei 2022–2024 und (DE/EN) bei 2025–heute: Absicht? (`docs/dominik-vorgaben.md`, Übersicht 3, Punkte 26 und 27)
+
 ## Vita neu, drei Fassungen (6. November, V90)
 
 Dominik hat die Bio am 6. November mehrmals neu geschickt. Es gilt Nachricht 9 mit 10 und 11, für die Stationen Nachricht 12, für Mallorca Nachricht 4 („längerer Aufenthalt, zweiter Wohnsitz“) und unter dem Foto nur „Törn Sardinien–Korsika, 2025.“ (Nachricht 13); alle im Wortlaut in `docs/dominik-vorgaben.md`, V90. Zur ersten Fassung am Desktop schrieb er: „haben wir schon wieder dieses Platzproblem unter dem Vita Text“. Gebaut sind drei Fassungen mit demselben Inhalt (Nachricht 5: „Mach wieder drei Varianten und wähle die beste“). Im Repository steht A, Claudes Empfehlung; live ist noch die Vita vom 29. Oktober.
